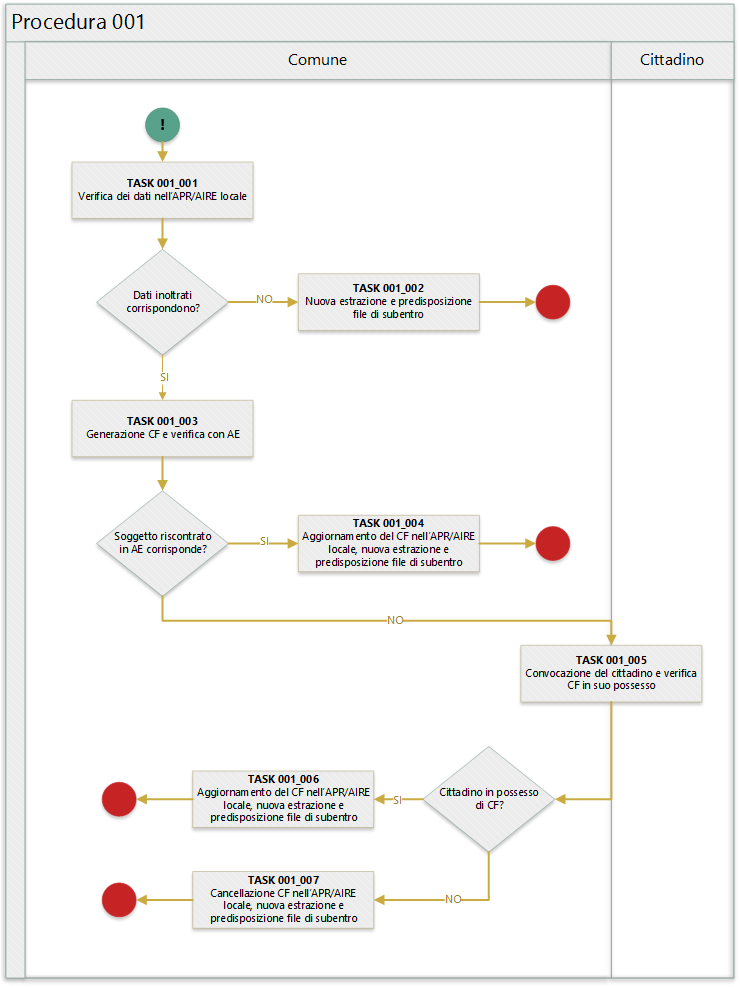
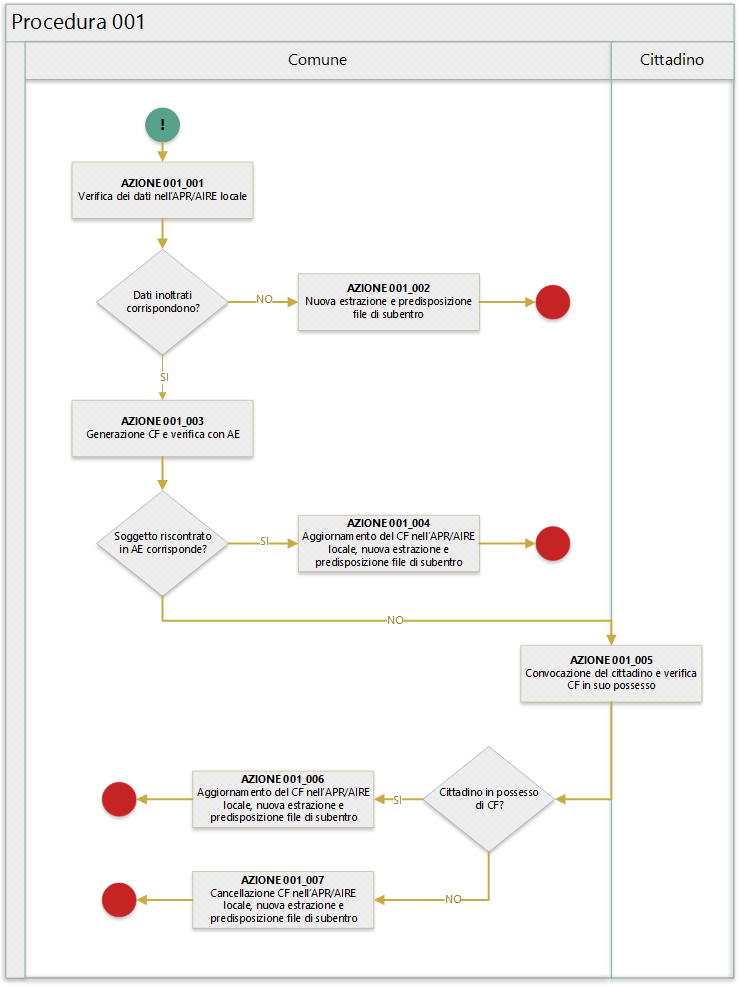
Eliminati termini in inglese

diff --git a/procedure/procedura001.md b/procedure/procedura001.md
@@ -13,33 +13,33 @@ Per dare seguito alla presente procedura è necessario che l'ufficiale d'anagraf
 - accesso al sistema gestionale del Comune (APR o AIRE locale) con diritti di lettura e aggiornamento delle schede soggetto;
 - accesso al sistema *SIATEL v2.0 - PuntoFisco* reso disponibile dall'Agenzia delle Entrate. 
 
-## Swimlane diagram
+## Diagramma della procedura
 La seguente figura sintetizza la procedura per la gestione delle anomalie.
 
 ![Swimlane diagram procedura 001](image/image001.png)
 
-## Descrizione task
+## Descrizione azione
 In quanto segue si riporta una descrizione dei task previsti per la presente procedura.
 
-### TASK 001_001
+### AZIONE 001_001
 L'ufficiale d'anagrafe verifica i dati anagrafici associati al soggetto interessato dall'errore sul sistema gestionale del Comune (APR o AIRE locale) con l'obiettivo di constatare che i dati inoltrati al sistema ANPR coincidono con quelli registrati.
 
-### TASK 001_002
+### AZIONE 001_002
 Poichè i dati inoltrati al sistema ANPR non coincidono con quelli presenti nel sistema gestionale del Comune (probabilemente per problemi nella procedura di estrazione e predisposizione dei file di subentro utilizzata) è necessario provvedere nuovamente all'estrazione dei dati e alla predisposizione dei file di subentro al fine di provvedere ad eseguire l'inoltro al sistema ANPR.
 
-### TASK 001_003
+### AZIONE 001_003
 L'ufficiale di anagrafe genera nuovamente il *codice fiscale* del soggetto rispettando le [regole di codifica](http://www.agenziaentrate.gov.it/wps/content/Nsilib/Nsi/Home/CosaDeviFare/Richiedere/Codice+fiscale+e+tessera+sanitaria/Richiesta+TS_CF/SchedaI/Informazioni+codificazione+pf/) è verifica, tramite il sistema *SIATEL v2.0 - PuntoFisco* reso disponibile dall'Agenzia delle entrate, l'attribuzione dello stesso da parte dell'Agenzia delle entrate.
 
-### TASK 001_004
+### AZIONE 001_004
 L'ufficiale di anagrafe, a valle del positivo riscontro con l'Agenzia delle entrate, provvede ad aggiornare il *codice fiscale* sul sistema gestionale del Comune per dare seguito ad una nuova estrazione dei dati e alla predisposizione dei file di subentro al fine di provvedere ad eseguire l'inoltro al sistema ANPR.
 
-### TASK 001_005
+### AZIONE 001_005
 L'ufficiale di anagrafe convoca il cittadino per verificare se lo stesso è in possesso di un *codice fiscale* correttamente generato dall'Agenzia delle entrate.
 
-### TASK 001_006
+### AZIONE 001_006
 L'ufficiale di anagrafe, a valle del positivo riscontro con il cittadino, provvede ad aggiornare il *codice fiscale* sul sistema gestionale del Comune per dare seguito ad una nuova estrazione dei dati e alla predisposizione dei file di subentro al fine di provvedere ad eseguire l'inoltro al sistema ANPR.
 
-### TASK 001_007
+### AZIONE 001_007
 L'ufficiale di anagrafe, non avendo la possibilità di riscontrate il *codice fiscale* provvede alla cancellazione dei dati sul sistema gestionale del Comune per dare seguito ad una nuova estrazione dei dati e alla predisposizione dei file di subentro al fine di provvedere ad eseguire l'inoltro al sistema ANPR
 
 ## Riferimenti di interesse

diff --git a/procedure/procedura002.md b/procedure/procedura002.md
@@ -13,21 +13,21 @@ Per dare seguito alla presente procedura è necessario che l'ufficiale d'anagraf
 - accesso al sistema gestionale del Comune (APR o AIRE locale) con diritti di lettura e aggiornamento delle schede soggetto;
 - accesso al sistema *SIATEL v2.0 - PuntoFisco* reso disponibile dall'Agenzia delle Entrate. 
 
-## Swimlane diagram
+## Diagramma della procedura
 La seguente figura sintetizza la procedura per la gestione delle anomalie.
 
 ![Swimlane diagram procedura 002](image/image002.png)
 
-## Descrizione task
+## Descrizione azione
 In quanto segue si riporta una descrizione dei task previsti per la presente procedura.
 
-### TASK 002_001
+### AZIONE 002_001
 L'ufficiale di anagrafe verifica, tramite il sistema *SIATEL v2.0 - PuntoFisco* reso disponibile dall'Agenzia delle entrate, l'attribuzione dello stesso da parte dell'Agenzia delle entrate.
 
-### TASK 002_002
+### AZIONE 002_002
 L'ufficiale di anagrafe, a valle del positivo riscontro con l'Agenzia delle entrate, provvede ad aggiornare il *codice fiscale* sul sistema gestionale del Comune per dare seguito ad una nuova estrazione dei dati e alla predisposizione dei file di subentro al fine di provvedere ad eseguire l'inoltro al sistema ANPR.
 
-### TASK 002_003
+### AZIONE 002_003
 Nel caso in in cui l'ufficiale di anagrafe non riesca ad effettuare il riscontro del CF del soggetto tramite il sistema *SIATEL v2.0 - PuntoFisco* reso disponibile dall'Agenzia delle entrate, contatta l'Help Desk di ANPR per segnalare la circostanza.
 
 ## Riferimenti di interesse
